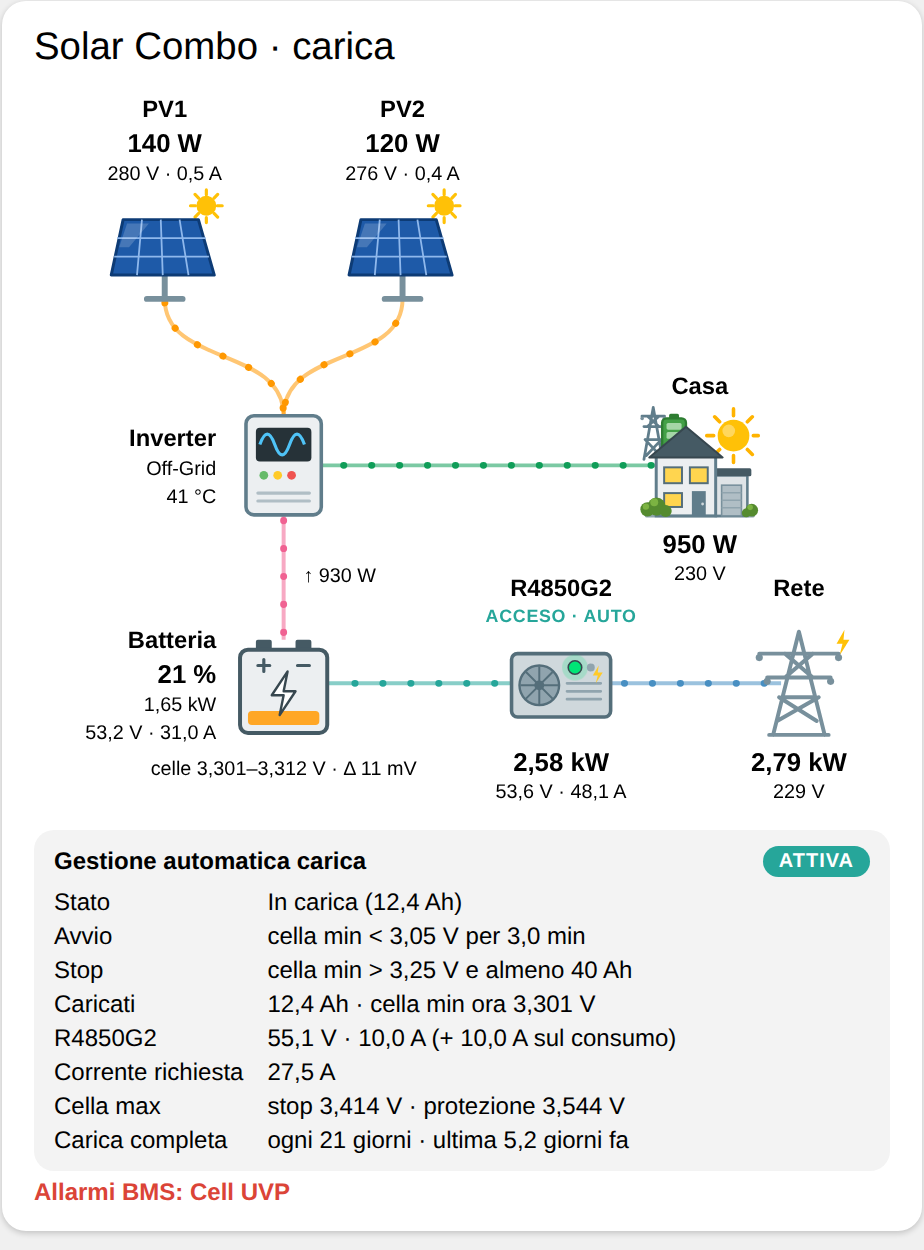
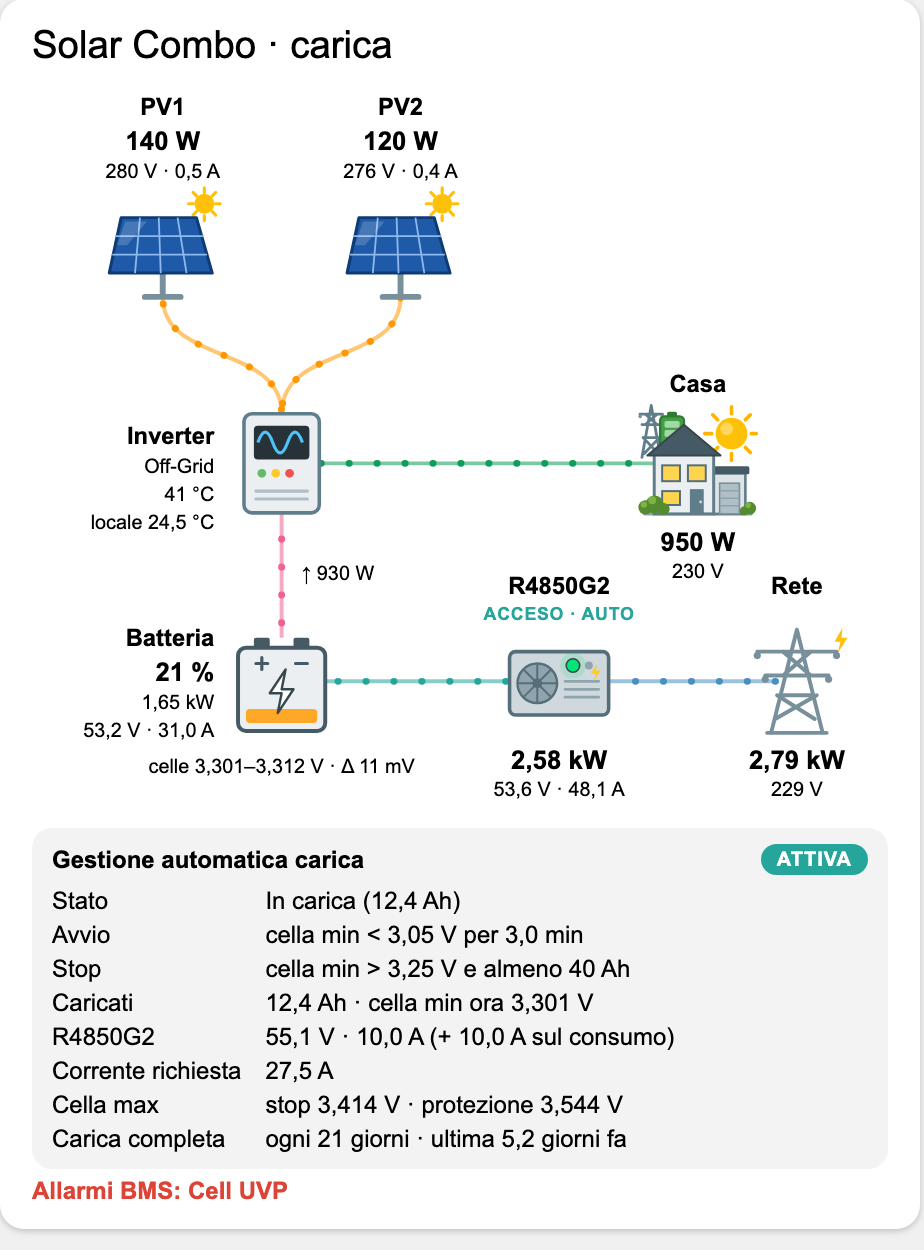
Solar Combo Card 0.6.0

Changed region(s): [[0.0909, 0.2808, 0.9394, 0.7176], [0.0303, 0.6864, 0.7273, 0.9672], [0.0303, 0.0, 0.5152, 0.2808]]

diff --git a/dist/solar-combo-card.js b/dist/solar-combo-card.js
@@ -1,5 +1,5 @@
-/* Solar Combo Card 0.5.0 - https://github.com/deltamike66/solar-combo-card - MIT */
-const VERSION = "0.5.0";
+/* Solar Combo Card 0.6.0 - https://github.com/deltamike66/solar-combo-card - MIT */
+const VERSION = "0.6.0";
 
 const ENTITA = {
   pv1_power: "sensor.{p}_{inv}_pv1_power",
@@ -10,6 +10,7 @@ const ENTITA = {
   pv2_current: "sensor.{p}_{inv}_pv2_current",
   inverter_mode: "sensor.{p}_{inv}_operation_mode",
   inverter_temp: "sensor.{p}_{inv}_temperature",
+  room_temp: "sensor.{p}_temperatura_locale_inverter",
   load_power: "sensor.{p}_{inv}_output_active_power",
   load_voltage: "sensor.{p}_{inv}_output_effective_voltage",
   battery_soc: "sensor.{p}_bms_state_of_charge",
@@ -250,6 +251,7 @@ class SolarComboCard extends HTMLElement {
           <text class="tit fine" x="96" y="190">Inverter</text>
           <text class="sub fine" x="96" y="205" data-t="inv_modo"></text>
           <text class="sub fine" x="96" y="219" data-t="inv_temp"></text>
+          <text class="sub fine" x="96" y="233" data-t="locale_temp"></text>
           <!-- casa -->
           <text class="tit" x="340" y="164">Casa</text>
           <text class="val" x="340" y="244" data-t="casa"></text>
@@ -360,6 +362,7 @@ class SolarComboCard extends HTMLElement {
     const modo = this._stato("inverter_mode");
     this._testo("inv_modo", modo ? modo.state : "—");
     this._testo("inv_temp", `${this._fmt(this._num("inverter_temp"))} °C`);
+    this._testo("locale_temp", `locale ${this._fmt(this._num("room_temp"), 1)} °C`);
     const casa = this._num("load_power");
     this._testo("casa", this._potenza(casa));
     this._testo("casa_sub", `${this._fmt(this._num("load_voltage"))} V`);

diff --git a/README.md b/README.md
@@ -50,14 +50,14 @@ Sotto lo schema c'è il pannello **Gestione automatica carica**: se è attiva, l
 
 La card è un solo file JavaScript, senza dipendenze e senza compilazione: `dist/solar-combo-card.js`.
 
-### Con il Marketplace (HACS integrato, Home Assistant 2026.11 e successivi)
+### Con HACS
 
-Dalla 2026.11 HACS è integrato in Home Assistant come **Marketplace**.
+1. Apri **HACS**, menu **⋮** in alto a destra → **Archivi digitali personalizzati**.
+2. In **Archivio digitale** incolla `https://github.com/deltamike66/solar-combo-card`, come **Tipo** scegli **Dashboard** e premi **Aggiungi**.
+3. Cerca **Solar Combo Card** in HACS, aprila e premi **Scarica**: la risorsa viene aggiunta da sola.
+4. Ricarica la pagina del browser.
 
-1. **Impostazioni → Marketplace**, in alto a destra **Add from link**: incolla `deltamike66/solar-combo-card` e, se chiede il tipo, scegli **Dashboard**. La prima volta va collegato l'account GitHub.
-2. Cerca **Solar Combo Card** nel Marketplace e installala: la risorsa viene aggiunta da sola. Gli aggiornamenti arrivano come nuove release del repository.
-
-Con HACS separato (versioni fino alla 2026.10): HACS → ⋮ → **Repository personalizzati**, indirizzo `deltamike66/solar-combo-card`, categoria **Dashboard**.
+Gli aggiornamenti compaiono in HACS a ogni nuova release del repository.
 
 ### A mano
 
@@ -72,9 +72,9 @@ Con HACS separato (versioni fino alla 2026.10): HACS → ⋮ → **Repository pe
          type: module
    ```
 
-   Senza `resource_mode: yaml` la lista `resources:` viene ignorata. Con `resource_mode: yaml` **tutte** le risorse si leggono da questa lista: se ne avevi già altre (card installate dal Marketplace), vanno elencate anche loro (il Marketplace mostra la riga da aggiungere).
+   Senza `resource_mode: yaml` la lista `resources:` viene ignorata. Con `resource_mode: yaml` **tutte** le risorse si leggono da questa lista: se ne avevi già altre (per esempio card installate con HACS), vanno elencate anche loro.
    Nelle versioni con la Modalità avanzata (fino alla 2026.5) c'era anche la pagina **Impostazioni → Dashboard → ⋮ → Risorse → Aggiungi risorsa** (URL `/local/solar-combo-card.js`, tipo **Modulo JavaScript**), visibile solo con la Modalità avanzata attiva nel profilo.
-3. Ricarica la pagina del browser. Dopo un aggiornamento del file, svuota la cache o aggiungi la versione all'URL della risorsa (per esempio `/local/solar-combo-card.js?v=0.5.0`).
+3. Ricarica la pagina del browser. Dopo un aggiornamento del file, svuota la cache o aggiungi la versione all'URL della risorsa (per esempio `/local/solar-combo-card.js?v=0.6.0`).
 
 ## Configurazione
 
@@ -103,6 +103,7 @@ Gli entity_id predefiniti sono quelli che Home Assistant crea per il dispositivo
 | `pv2_power`, `pv2_voltage`, `pv2_current` | `sensor.{p}_{inv}_pv2_power`, `_voltage`, `_current` |
 | `inverter_mode` | `sensor.{p}_{inv}_operation_mode` |
 | `inverter_temp` | `sensor.{p}_{inv}_temperature` |
+| `room_temp` | `sensor.{p}_temperatura_locale_inverter` (sonda DS18B20 del locale) |
 | `load_power` | `sensor.{p}_{inv}_output_active_power` |
 | `load_voltage` | `sensor.{p}_{inv}_output_effective_voltage` |
 | `battery_soc` | `sensor.{p}_bms_state_of_charge` |
